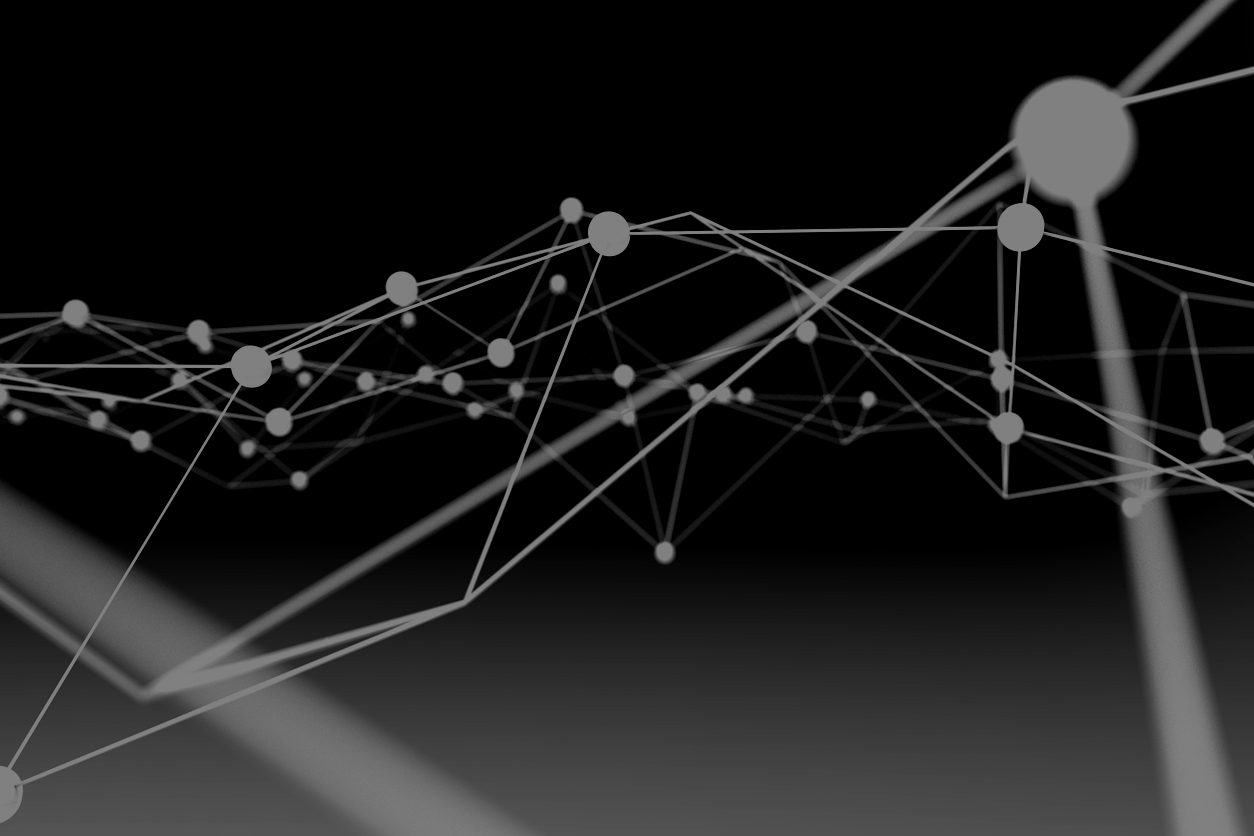
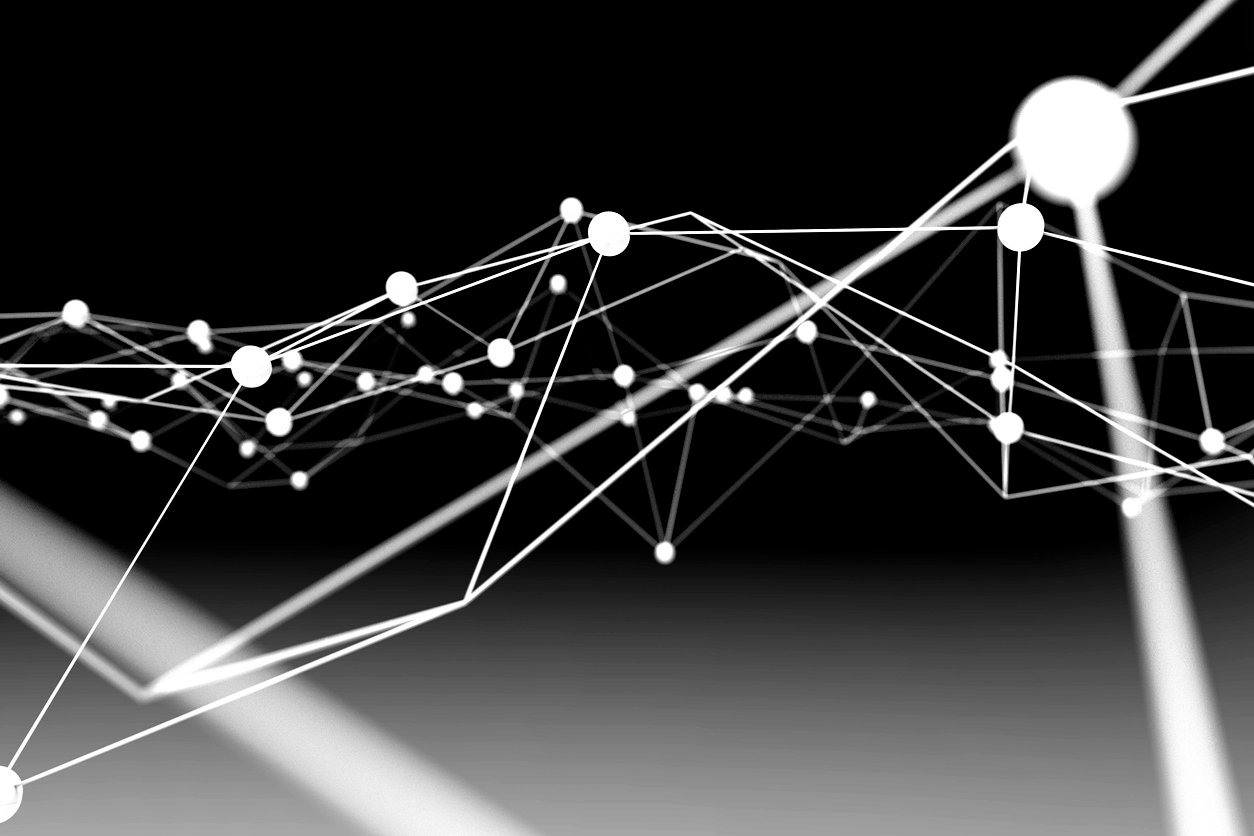
changed background

diff --git a/_layouts/home.html b/_layouts/home.html
@@ -40,6 +40,10 @@ layout: page
             <div class="row">
                 <div class="col-lg-6 col-sm-12">
                     <h1 class="main-heading display-2">about_us</h1>
+                </div>
+            </div>
+            <div class="row">
+                <div class="col-lg-6 col-sm-12">
                     <p>
                         Started in 2016, Megathon is Hyderabad's largest student-run Hackathon. Organised by E-Cell IIIT Hyderabad with the intention of promoting the spirit of entrepreneurship and development among the student community in and around the city, it has gotten bigger and more successful over the years; drawing 450 participants in its first year, and upwards of 600 in its second. 
                         It didn't stop there. In the 3rd edition we introduced an online event, taking the hackathon nationwide. The 2018 edition of Megathon had over 1000 participants from colleges all across the country.

diff --git a/css/home.css b/css/home.css
@@ -1,6 +1,6 @@
 
 body {
-    background: url('/assets/backgrounds/neural_bg.jpg');
+    background: url('/assets/backgrounds/ethereum-blockchain-1800x640.jpg');
     background-position: center;
     background-size: cover;
     /* background: black; */
